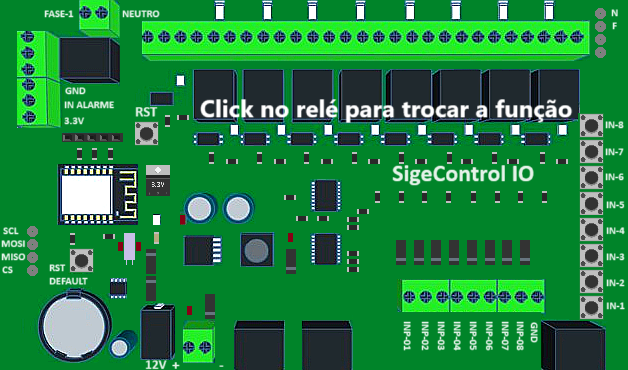
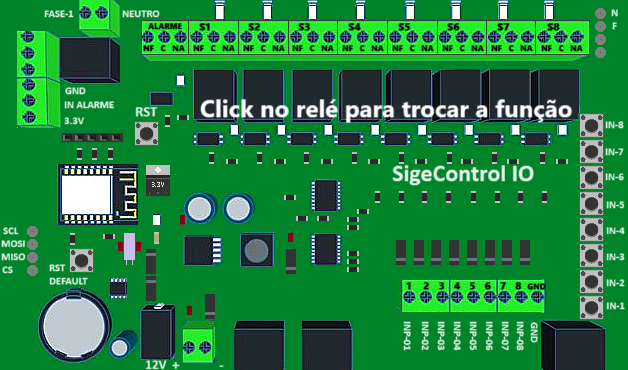
Add files via upload

diff --git a/style.css b/style.css
@@ -1141,12 +1141,12 @@ td {
     text-align: center;
     color: white;
     font-size: 1.3vw;
-    width: 20%;
+    width: 17%;
     display: block;
     z-index: 2;
 
-     top: -30%;
-    right: -17%;
+     top: -35%;
+    right: 95%;
 
 }
 
@@ -1183,8 +1183,8 @@ td {
     text-align: center;
     color: white;
     font-size: 1.3vw;
-    width: 1.2%;
-    height: 14%;
+    width: 1.1%;
+    height: 18%;
     display: block;
     z-index: 1;
     background-color: #ff0000;
@@ -1193,49 +1193,49 @@ td {
 
 /* Ajuste as posições conforme necessário para cada display de timer */
 #cabo8 {
-     top: -8%;
+     top: -12.5%;
     right: 7.3%;
    
 }
 
 #cabo7 {
-    top: -8%;
+    top: -12.5%;
     right: 15.3%;
    
 }
 
 #cabo6 {
-    top: -8%;
+    top: -12.5%;
     right: 23.3%;
    
 }
 
 #cabo5 {
-    top: -8%;
+    top: -12.5%;
     right: 31.3%;
     
 }
 
 #cabo4 {
-    top: -8%;
+    top: -12.5%;
     right: 39%;
     
 }
 
 #cabo3 {
-     top: -8%;
+     top: -12.5%;
     right: 46.9%;
    
    
 }
 
 #cabo2 {
-   top: -8%;
+   top: -12.5%;
     right: 54.9%;
 }
 
 #cabo1 {
-   top: -8%;
+   top: -12.5%;
     right: 62.8%;
 }
 
@@ -1244,7 +1244,7 @@ td {
     text-align: center;
     color: white;
     font-size: 1.3vw;
-    width: 85.5%;
+    width: 13%;
     height: 1.8%;
     display: block;
     z-index: 1;
@@ -1254,8 +1254,8 @@ td {
 
 /* Ajuste as posições conforme necessário para cada display de timer */
 #caboF{
-     top: -15%;
-    right: 0.5%;
+     top: -23.5%;
+    left: 0.5%;
    
 }
 
@@ -1265,7 +1265,7 @@ td {
     text-align: center;
     color: white;
     font-size: 1.3vw;
-    width: 83%;
+    width: 16%;
     height: 1.8%;
     display: block;
     z-index: 1;
@@ -1275,8 +1275,8 @@ td {
 
 /* Ajuste as posições conforme necessário para cada display de timer */
 #caboN{
-     top: -12%;
-    right: 0.5%;
+     top: -30%;
+    left: 0.5%;
    
 }
 
@@ -1287,7 +1287,7 @@ td {
     color: white;
     font-size: 1.3vw;
     width: 1.1%;
-    height: 12%;
+    height: 30%;
     display: block;
     z-index: 1;
     background-color: rgb(0, 98, 255);
@@ -1296,7 +1296,7 @@ td {
 
 /* Ajuste as posições conforme necessário para cada display de timer */
 #caboN1{
-     top: -12%;
+     top: -30%;
     right: 83%;
    
 }
@@ -1308,7 +1308,7 @@ td {
     text-align: center;
     color: white;
     font-size: 1.3vw;
-    width: 3%;
+    width: 4.5%;
     display: block;
     z-index: 1;
     
@@ -1317,8 +1317,8 @@ td {
 
 /* Ajuste as posições conforme necessário para cada display de timer */
 #disjuntorFase{
-     top: -16%;
-    right: 84.5%;
+     top: -25%;
+    right: 83.7%;
    
 }
 
